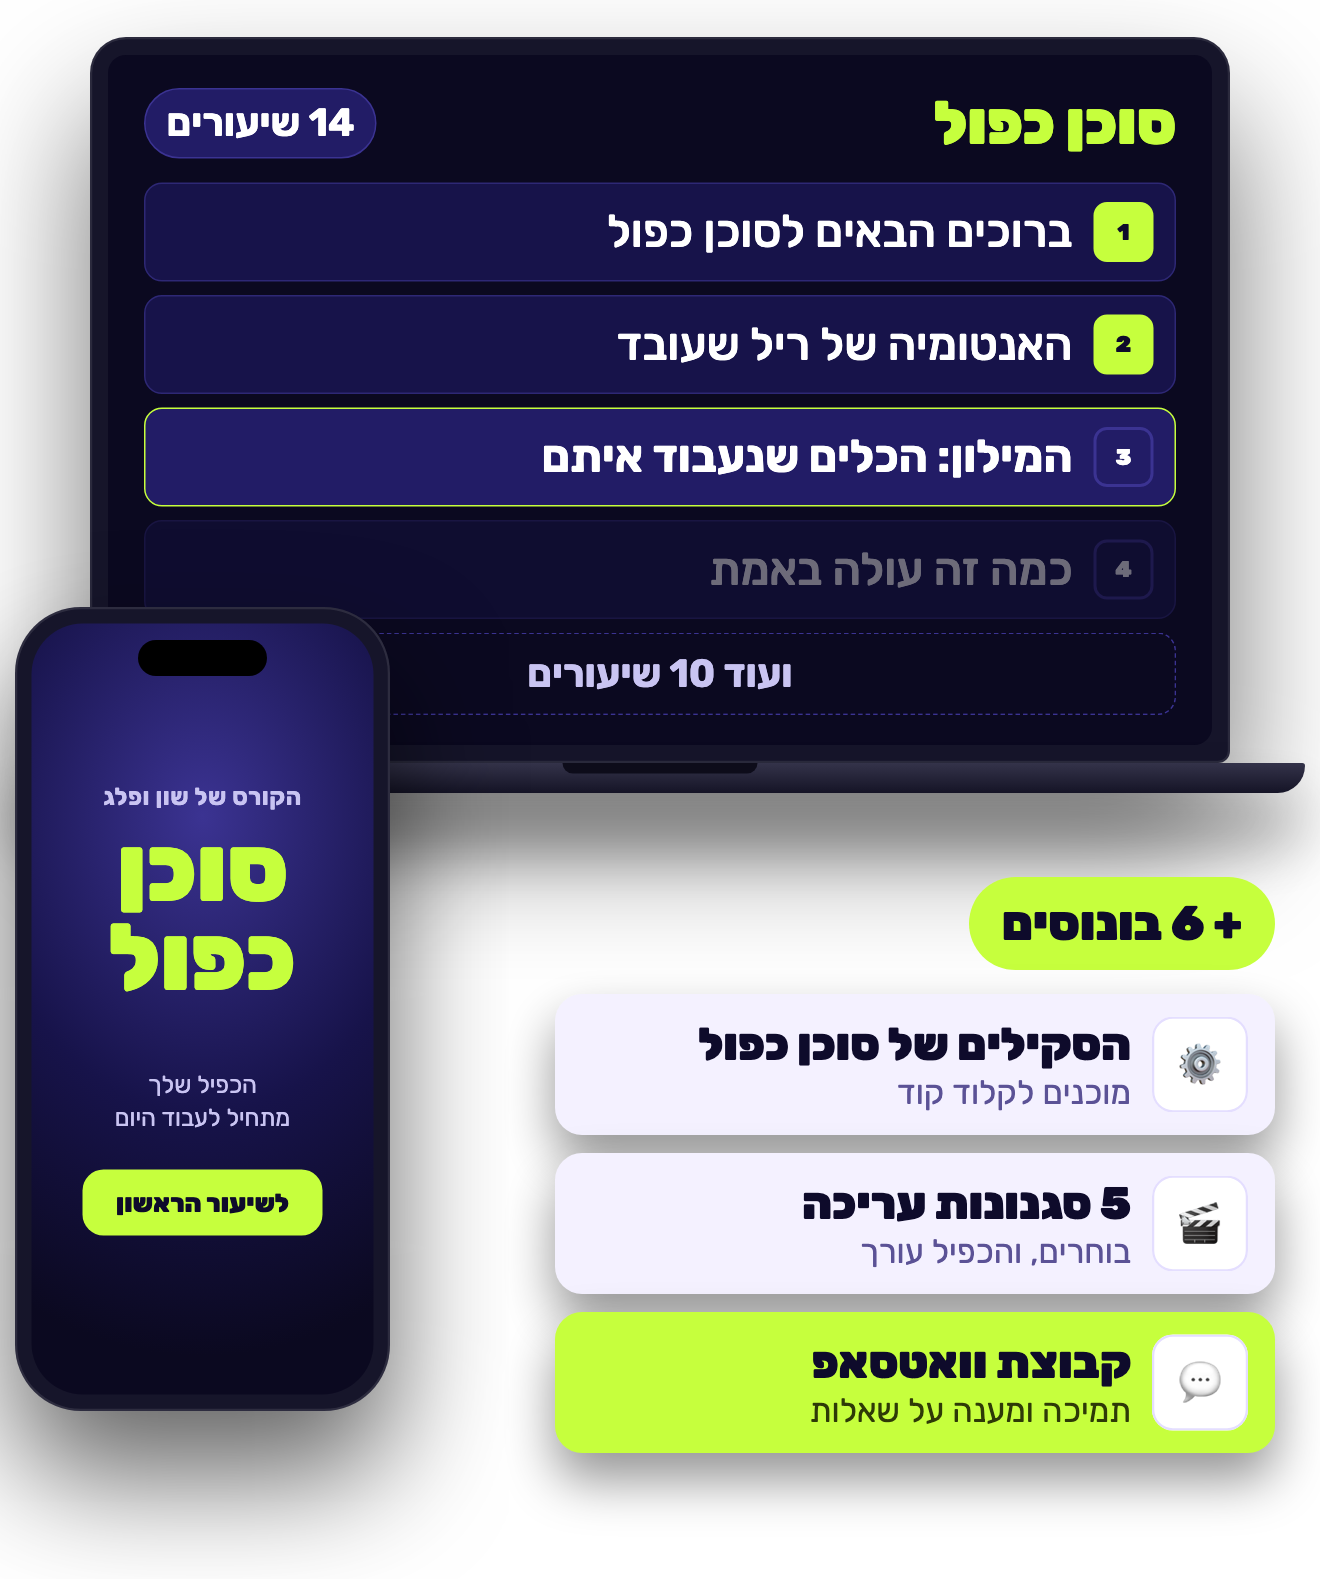
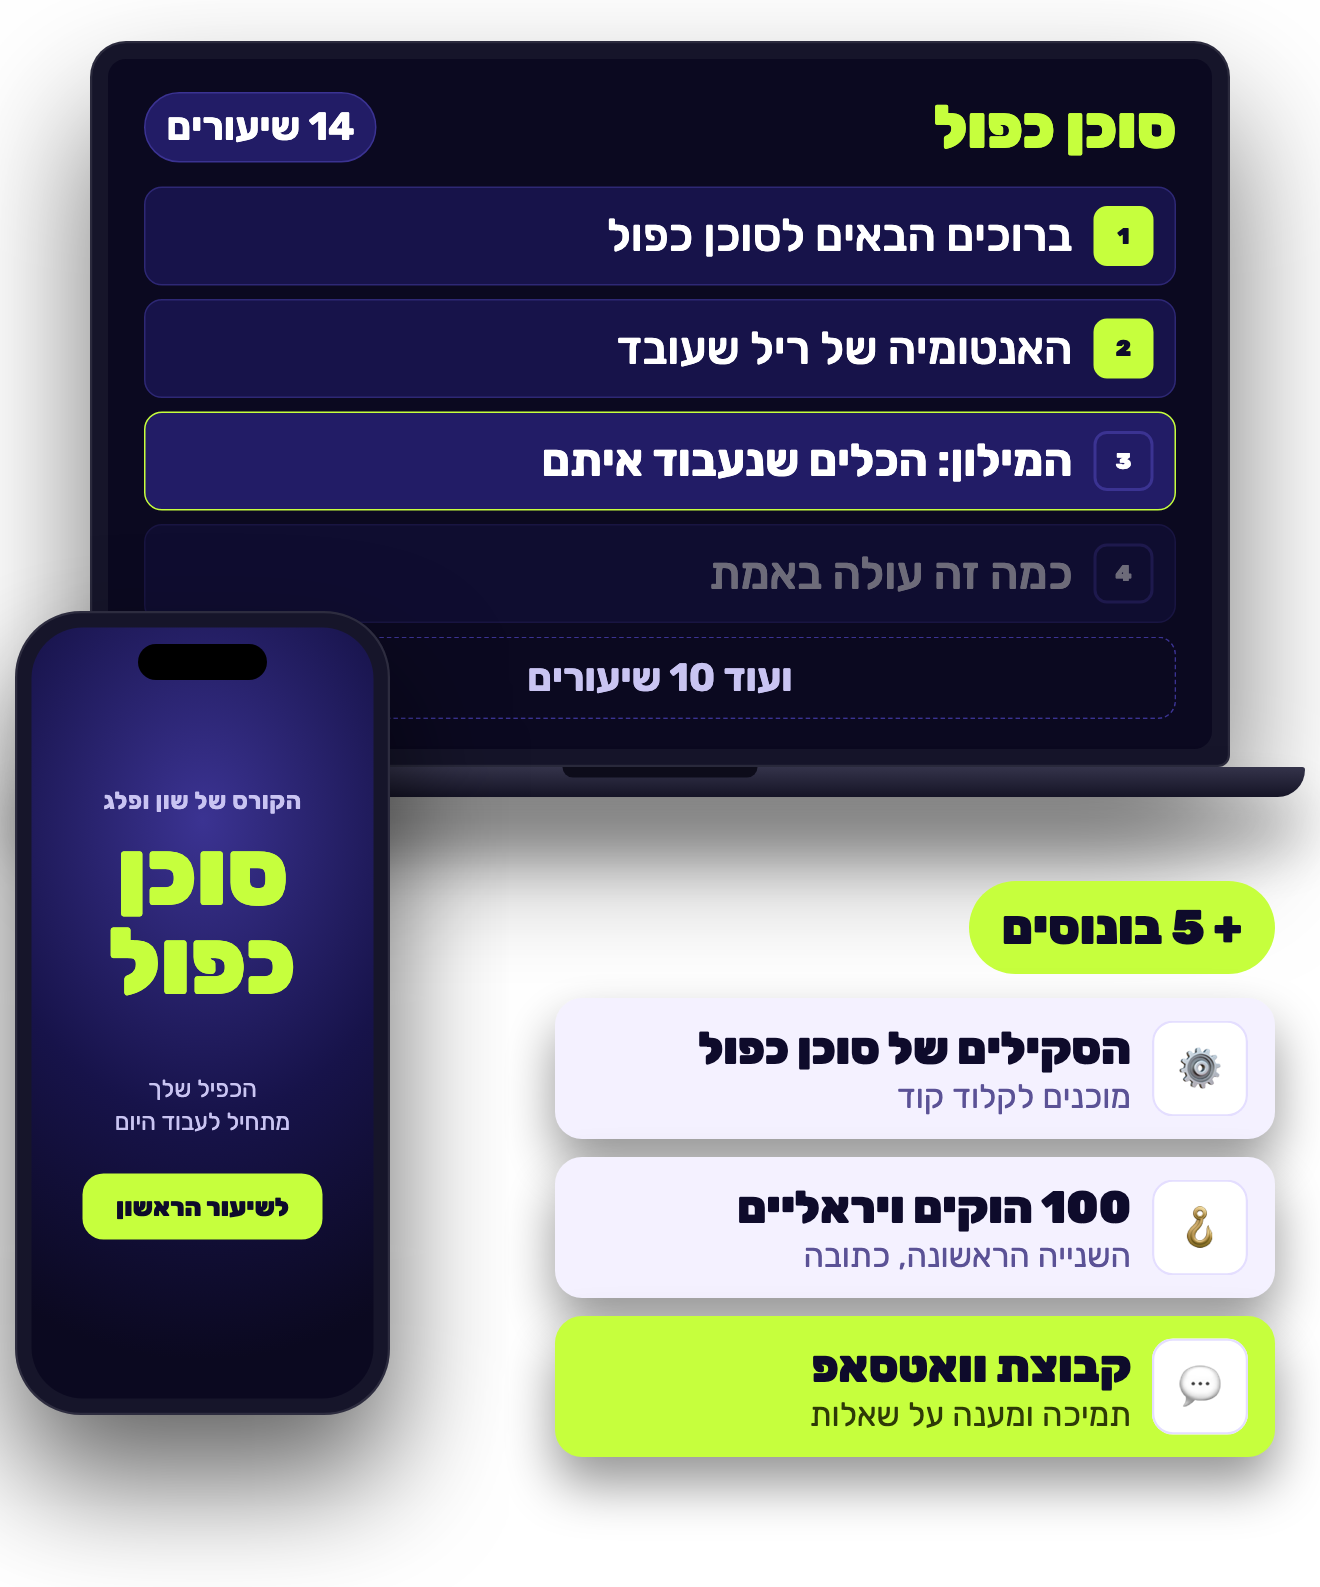
v3: הוסר בונוס ספריית הסגנונות (5 בונוסים, שווי 5,782), מוקאפים מעודכנים, 5 טיוטות לוגו מ-Higgsfield

diff --git a/variations/v3-indigo/index.html b/variations/v3-indigo/index.html
@@ -1386,21 +1386,9 @@ section .lead,.s7-head,.s12-head,.s11-head{text-align:center;align-items:center}
           <i class="b-shade" aria-hidden="true"></i>
         </div>
       </article>
-      <article class="bonus" style="--i:1;--pnl:#A99BFF;--bd:#0E0B2B;--sh:#0E0B2B;--tag:#0E0B2B;--tagc:#C6FF3D;--tx:#0E0B2B;--pdim:#2B2560;--vbg:#8F80F0">
+      <article class="bonus" style="--i:1;--pnl:#221C66;--bd:#A99BFF;--sh:#C6FF3D;--tag:#C6FF3D;--tagc:#0E0B2B;--tx:#FFFFFF;--pdim:#C9C4F2;--vbg:#151236">
         <div class="bcard">
           <span class="b-tag">בונוס #2</span>
-          <div class="b-body">
-            <h3>ספריית סגנונות העריכה שלנו</h3>
-            <p>טמפלטים מוכנים בכמה סגנונות. <b>בוחרים אחד, והכפיל עורך לפיו.</b> כל סרטון יוצא נקי ומקצועי.</p>
-            <span class="b-val"><span aria-hidden="true">💰</span> שווי: 897 ש״ח</span>
-          </div>
-          <div class="b-vis" aria-hidden="true"><div class="mk"><div class="mk-phones"><div class="mk-ph p1"><span class="cap">בלי לצלם</span></div><div class="mk-ph p2"><span class="cap">כל פעם</span></div><div class="mk-ph p3"><span class="cap">מחדש</span></div></div></div></div>
-          <i class="b-shade" aria-hidden="true"></i>
-        </div>
-      </article>
-      <article class="bonus" style="--i:2;--pnl:#221C66;--bd:#A99BFF;--sh:#C6FF3D;--tag:#C6FF3D;--tagc:#0E0B2B;--tx:#FFFFFF;--pdim:#C9C4F2;--vbg:#151236">
-        <div class="bcard">
-          <span class="b-tag">בונוס #3</span>
           <div class="b-body">
             <h3>ספריית 233 פרומפטים לקומפוננטות עיצוב ואנימציות</h3>
             <p><b>מדביקים בקלוד קוד, ומקבלים קומפוננטה מעוצבת עם אנימציה.</b> 233 פרומפטים מוכנים, מסודרים לפי סוג.</p>
@@ -1410,9 +1398,9 @@ section .lead,.s7-head,.s12-head,.s11-head{text-align:center;align-items:center}
           <i class="b-shade" aria-hidden="true"></i>
         </div>
       </article>
-      <article class="bonus" style="--i:3;--pnl:#A99BFF;--bd:#0E0B2B;--sh:#0E0B2B;--tag:#0E0B2B;--tagc:#C6FF3D;--tx:#0E0B2B;--pdim:#2B2560;--vbg:#8F80F0">
+      <article class="bonus" style="--i:2;--pnl:#A99BFF;--bd:#0E0B2B;--sh:#0E0B2B;--tag:#0E0B2B;--tagc:#C6FF3D;--tx:#0E0B2B;--pdim:#2B2560;--vbg:#8F80F0">
         <div class="bcard">
-          <span class="b-tag">בונוס #4</span>
+          <span class="b-tag">בונוס #3</span>
           <div class="b-body">
             <h3>100 הוקים ויראליים מוכחים</h3>
             <p>השנייה הראשונה של הסרטון קובעת אם יגללו הלאה. <b>פה היא כבר כתובה בשבילך.</b></p>
@@ -1422,9 +1410,9 @@ section .lead,.s7-head,.s12-head,.s11-head{text-align:center;align-items:center}
           <i class="b-shade" aria-hidden="true"></i>
         </div>
       </article>
-      <article class="bonus" style="--i:4;--pnl:#221C66;--bd:#A99BFF;--sh:#C6FF3D;--tag:#C6FF3D;--tagc:#0E0B2B;--tx:#FFFFFF;--pdim:#C9C4F2;--vbg:#151236">
+      <article class="bonus" style="--i:3;--pnl:#221C66;--bd:#A99BFF;--sh:#C6FF3D;--tag:#C6FF3D;--tagc:#0E0B2B;--tx:#FFFFFF;--pdim:#C9C4F2;--vbg:#151236">
         <div class="bcard">
-          <span class="b-tag">בונוס #5</span>
+          <span class="b-tag">בונוס #4</span>
           <div class="b-body">
             <h3>פורמטים מוכחים לכל נישה, כדי להתפוצץ באינסטגרם</h3>
             <p>לא צריך להמציא מאפס. <b>בוחרים את הנישה שלך, ומקבלים מבנים שכבר עבדו.</b></p>
@@ -1434,9 +1422,9 @@ section .lead,.s7-head,.s12-head,.s11-head{text-align:center;align-items:center}
           <i class="b-shade" aria-hidden="true"></i>
         </div>
       </article>
-      <article class="bonus" style="--i:5;--pnl:#C6FF3D;--bd:#0E0B2B;--sh:#A99BFF;--tag:#0E0B2B;--tagc:#C6FF3D;--tx:#0E0B2B;--pdim:#2E3A07;--vbg:#B4EE2C">
+      <article class="bonus" style="--i:4;--pnl:#C6FF3D;--bd:#0E0B2B;--sh:#A99BFF;--tag:#0E0B2B;--tagc:#C6FF3D;--tx:#0E0B2B;--pdim:#2E3A07;--vbg:#B4EE2C">
         <div class="bcard">
-          <span class="b-tag">בונוס #6</span>
+          <span class="b-tag">בונוס #5</span>
           <div class="b-body">
             <h3>קבוצת וואטסאפ לתמיכה ומענה על שאלות</h3>
             <p><b>נתקעת? שולחים הודעה ומקבלים תשובה.</b> לא נשארים לבד מול המחשב.</p>
@@ -1476,18 +1464,17 @@ section .lead,.s7-head,.s12-head,.s11-head{text-align:center;align-items:center}
 <section id="s13v" class="vs">
   <div class="wrap">
     <h2 class="h2"><span class="ln m">כל מה שאתה</span> <span class="ln m lime">מקבל היום</span></h2>
-    <figure class="bundle rv"><picture><source media="(max-width:700px)" srcset="../../assets/mockup/bundle-m.webp" width="900" height="1048"><img src="../../assets/mockup/bundle.webp" alt="הקורס סוכן כפול: 14 שיעורים, הכפיל בטלפון ו-6 בונוסים" width="1400" height="827" loading="lazy"></picture></figure>
+    <figure class="bundle rv"><picture><source media="(max-width:700px)" srcset="../../assets/mockup/bundle-m.webp" width="900" height="1048"><img src="../../assets/mockup/bundle.webp" alt="הקורס סוכן כפול: 14 שיעורים, הכפיל בטלפון ו-5 בונוסים" width="1400" height="827" loading="lazy"></picture></figure>
     <h3 class="h3 vs-q rv">בוא נעשה חשבון:</h3>
     <ul class="vlist">
       <li data-v="1997"><span><span class="ve" aria-hidden="true">🎓</span>הקורס המלא: סוכן כפול</span><b>1,997 ש״ח</b></li>
       <li data-v="997"><span><span class="ve" aria-hidden="true">⚙</span>הסקילים של סוכן כפול</span><b>997 ש״ח</b></li>
-      <li data-v="897"><span><span class="ve" aria-hidden="true">🎬</span>ספריית סגנונות העריכה</span><b>897 ש״ח</b></li>
       <li data-v="497"><span><span class="ve" aria-hidden="true">🎨</span>233 פרומפטים לקומפוננטות ואנימציות</span><b>497 ש״ח</b></li>
       <li data-v="297"><span><span class="ve" aria-hidden="true">🪝</span>100 הוקים ויראליים מוכחים</span><b>297 ש״ח</b></li>
       <li data-v="697"><span><span class="ve" aria-hidden="true">📈</span>פורמטים מוכחים לכל נישה</span><b>697 ש״ח</b></li>
       <li data-v="1297"><span><span class="ve" aria-hidden="true">💬</span>קבוצת וואטסאפ לתמיכה</span><b>1,297 ש״ח</b></li>
     </ul>
-    <div class="vtotal"><span>שווי כולל:</span><s data-total="6679">6,679 ש״ח</s></div>
+    <div class="vtotal"><span>שווי כולל:</span><s data-total="5782">5,782 ש״ח</s></div>
     <p class="vs-but rv">אבל אתה לא תשלם את זה.</p>
   </div>
 </section>
@@ -1510,7 +1497,7 @@ section .lead,.s7-head,.s12-head,.s11-head{text-align:center;align-items:center}
     </div>
           <ul class="incl">
             <li><i aria-hidden="true"></i>כל שיעורי הקורס, מוקלטים</li>
-            <li><i aria-hidden="true"></i>6 בונוסים בשווי 4,682 ש״ח</li>
+            <li><i aria-hidden="true"></i>5 בונוסים בשווי 3,785 ש״ח</li>
             <li><i aria-hidden="true"></i>קבוצת וואטסאפ לתמיכה ומענה על שאלות</li>
             
           </ul>

diff --git a/tools/mockup/bundle.html b/tools/mockup/bundle.html
@@ -63,9 +63,9 @@ body{width:1400px;height:860px;font-family:Rubik,sans-serif;position:relative;ov
     <span class="ph-btn">לשיעור הראשון</span>
   </div></div>
   <div class="bon">
-    <span class="tag">+ 6 בונוסים</span>
+    <span class="tag">+ 5 בונוסים</span>
     <div class="bc"><span class="e">⚙</span><div><b>הסקילים של סוכן כפול</b><span>מוכנים לקלוד קוד</span></div></div>
-    <div class="bc"><span class="e">🎬</span><div><b>5 סגנונות עריכה</b><span>בוחרים, והכפיל עורך</span></div></div>
+    <div class="bc"><span class="e">📈</span><div><b>פורמטים לכל נישה</b><span>מבנים שכבר עבדו</span></div></div>
     <div class="bc"><span class="e">🎨</span><div><b>233 פרומפטים</b><span>לקומפוננטות ואנימציות</span></div></div>
     <div class="bc"><span class="e">🪝</span><div><b>100 הוקים ויראליים</b><span>השנייה הראשונה, כתובה</span></div></div>
     <div class="bc lime"><span class="e">💬</span><div><b>קבוצת וואטסאפ</b><span>תמיכה ומענה על שאלות</span></div></div>

diff --git a/tools/mockup/bundle-mobile.html b/tools/mockup/bundle-mobile.html
@@ -62,9 +62,9 @@ body{width:880px;height:1120px;font-family:Rubik,sans-serif;position:relative;ov
     <span class="ph-btn">לשיעור הראשון</span>
   </div></div>
   <div class="bon">
-    <span class="tag">+ 6 בונוסים</span>
+    <span class="tag">+ 5 בונוסים</span>
     <div class="bc"><span class="e">⚙</span><div><b>הסקילים של סוכן כפול</b><span>מוכנים לקלוד קוד</span></div></div>
-    <div class="bc"><span class="e">🎬</span><div><b>5 סגנונות עריכה</b><span>בוחרים, והכפיל עורך</span></div></div>
+    <div class="bc"><span class="e">🪝</span><div><b>100 הוקים ויראליים</b><span>השנייה הראשונה, כתובה</span></div></div>
     <div class="bc lime"><span class="e">💬</span><div><b>קבוצת וואטסאפ</b><span>תמיכה ומענה על שאלות</span></div></div>
   </div>
 </body>
